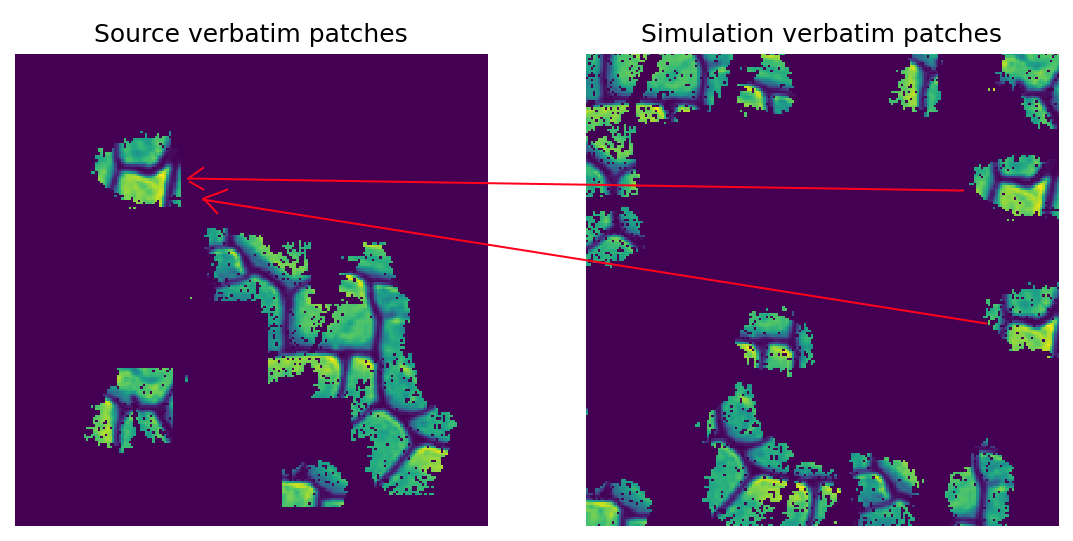
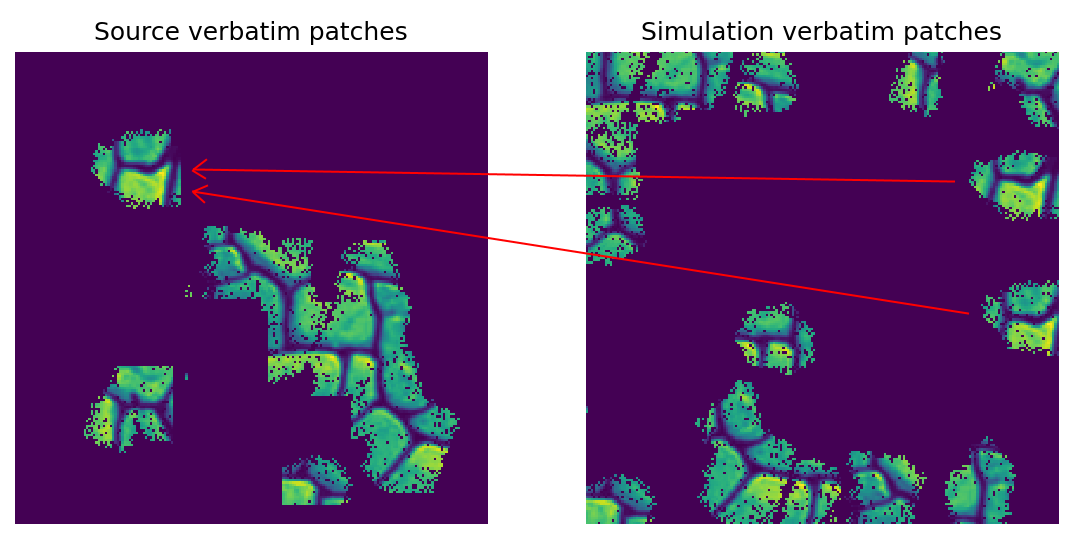
Update cover, visual validation arrows

diff --git a/notebooks/visual_validation.py b/notebooks/visual_validation.py
@@ -32,7 +32,7 @@ simulation_size = index_map.shape[0] * index_map.shape[1]
 
 def _index_to_coord(index):
     index = int(index)
-    y = math.floor(index / index_map.shape[1])
+    y = math.floor(index / index_map.shape[0])
     x = index - y * index_map.shape[1]
     return int(x), int(y)
 
@@ -57,11 +57,8 @@ non_weighted_heat_map_l = heat_map_creator.get_verbatim_heat_map_filter_basis(ma
 # dist_weighted_mean_heat_value = HeatMapAnalysis(heat_map).mean_heat_value()
 proportion_above_stat_s = HeatMapAnalysis(non_weighted_heat_map_s).above_treshold_heat_map(100 * max_noise_heat_s)
 proportion_above_stat_l = HeatMapAnalysis(non_weighted_heat_map_l).above_treshold_heat_map(100 * max_noise_heat_l)
-
-
-print(proportion_above_stat_s)
 # Critical area:
-critical_verbatim_area = (proportion_above_stat_l > 0.3) & (proportion_above_stat_s > 0.3) & (heat_map > 0.3)
+critical_verbatim_area = (proportion_above_stat_l == 1) & (proportion_above_stat_s == 1)
 
 filtered_sim = np.where(critical_verbatim_area, simulation, 0)
 ti_indices = simulation_indices_to_training_indices(np.where(critical_verbatim_area, index_map, 0))
@@ -82,6 +79,6 @@ ax3.imshow(np.where(ti_indices, ti, 0), interpolation='none')
 ax4.imshow(filtered_sim, interpolation='none')
 ax4.set_title('Simulation verbatim patches')
 
-fig.suptitle('Visual validation of verbatim patches, $HV > 0.3, TNA_s = 1, TNA_l = 1$')
+fig.suptitle('Visual validation of verbatim patches, $TNA_s = 1, TNA_l = 1$')
 plt.savefig(f'output/visual_validation/k={k}, n={n}.png', bbox_inches='tight', dpi=150)
 plt.show()
